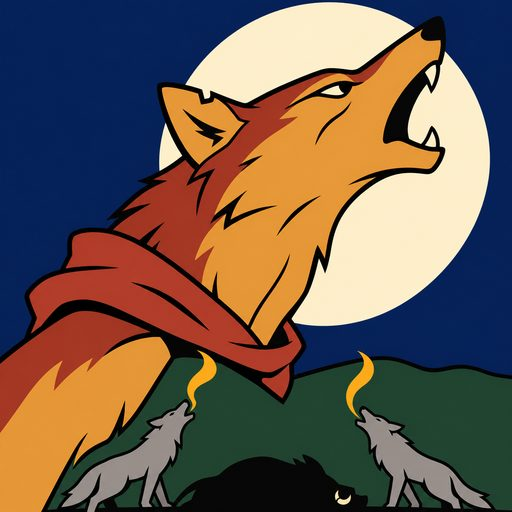
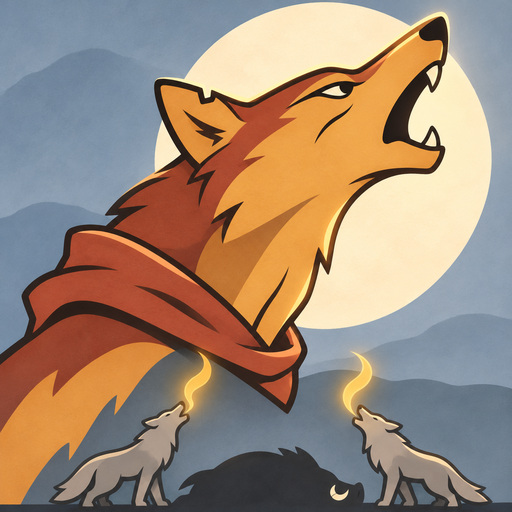
Repaint batch 0 upper-tier units in frozen inkglow style

diff --git a/docs/ideation/ui/loop1/art-inkglow.md b/docs/ideation/ui/loop1/art-inkglow.md
@@ -10,4 +10,4 @@ Round two: Pill Bug, Grey Agnes and Wee Wobbly redone; Beltane Bonfire, Elderflo
 
 Evidence: `build/loop1/inkglow-round2/` contains the 14-identity contact sheet, real recruit render using exact identity matches, lobby-chip comparison, logs and PNG masters. JPEGs: `assets/portraits_inkglow/`; fallback: `assets/ui/portraits_inkglow/`. Production lookup unchanged. Godot import/renders, GDScript format/lint and scope checks passed; tests unchanged. Full rollout has not started.
 
-Batch 0 rollout: 31/57 accepted so far (51 assigned IDs plus six fallbacks), each checked against preserved originals at 150px before overwriting production JPEGs. Four round-two portraits reused; heroes checked at 70px, with a darker local background for Dame Hoolet. Identity/prop changes are retried before acceptance. Frozen recipe, anchors and all `.import` files unchanged. Progress/identity notes: `tools/art/prompts/inkglow/batch0.json`; evidence and original backups: `build/loop1/batch0/`.
+Batch 0 rollout: 40/57 accepted so far (51 assigned IDs plus six fallbacks), each checked against preserved originals at 150px before overwriting production JPEGs. Four round-two portraits reused; heroes checked at 70px, with a darker local background for Dame Hoolet. Identity/prop changes are retried before acceptance. Frozen recipe, anchors and all `.import` files unchanged. Progress/identity notes: `tools/art/prompts/inkglow/batch0.json`; evidence and original backups: `build/loop1/batch0/`.
